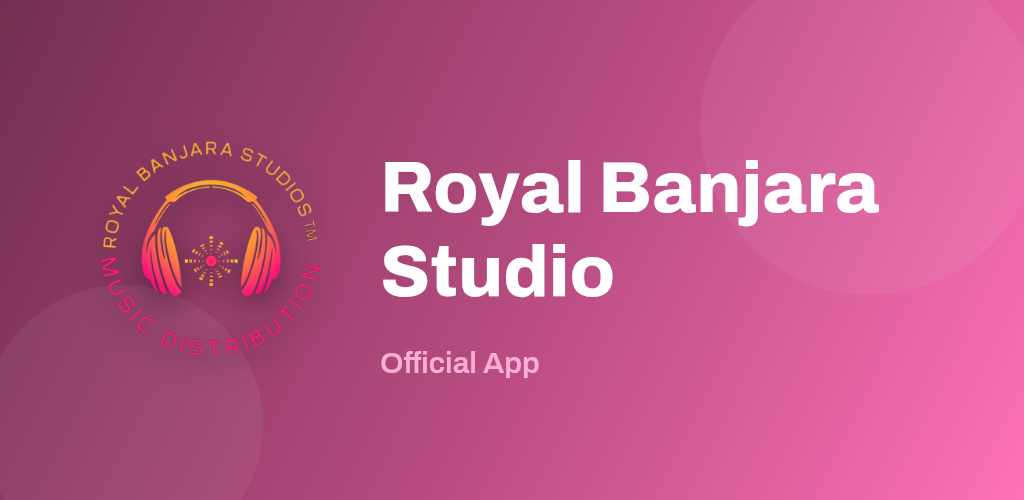
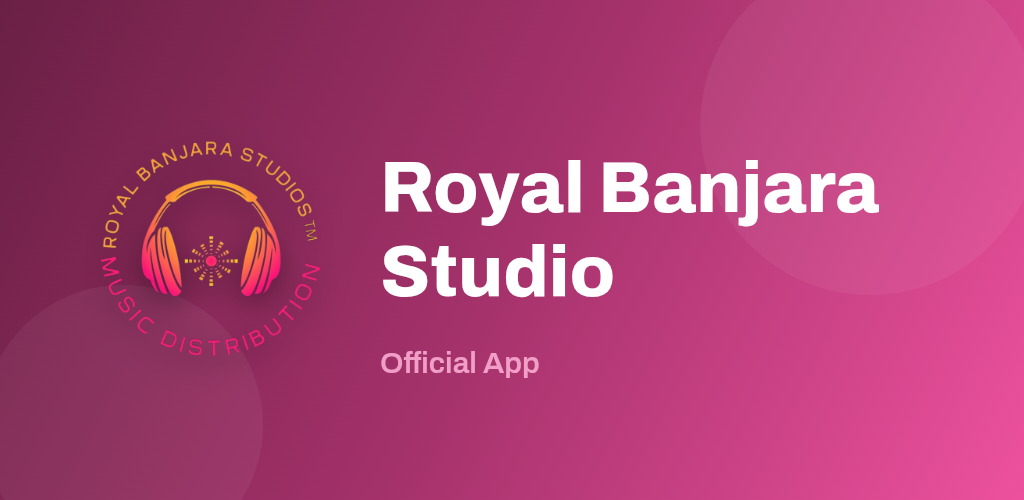
AppBanao: Royal Banjara Studio update

diff --git a/app/src/main/java/site/rbstudiosmusic/MainActivity.kt b/app/src/main/java/site/rbstudiosmusic/MainActivity.kt
@@ -156,7 +156,11 @@ class MainActivity : AppCompatActivity() {
         const val QUICK_SEARCH_ON = true
         const val HARD_RELOAD_ON = true
         const val STOPWATCH_ON = true
-        const val THEME_COLOR = "#FF69B4"
+        const val ALARM_TOOL_ON = true
+        const val CALENDAR_TOOL_ON = true
+        const val CONTACT_SAVE_ON = true
+        const val INVERT_TOOL_ON = true
+        const val THEME_COLOR = "#EC4899"
         const val SPLASH_COLOR = "#2B0A1D"
         const val HIDE_ON = true
         const val HIDE_CSS = "footer{display:none !important;}.footer{display:none !important;}#footer{display:none !important;}.site-footer{display:none !important;}#powered-by{display:none !important;}.powered-by{display:none !important;}#credit{display:none !important;}[data-kliv-badge]{display:none !important;}.kliv-badge{display:none !important;}#kliv-badge{display:none !important;}[class*=\"kliv-badge\"]{display:none !important;}[id*=\"kliv-badge\"]{display:none !important;}a[href*=\"kliv.site\"]{display:none !important;}a[href*=\"kliv.com\"]{display:none !important;}a[href*=\"kliv.dev\"]{display:none !important;}[data-kliv-footer]{display:none !important;}[class*=\"kliv-footer\"]{display:none !important;}[id*=\"kliv-footer\"]{display:none !important;}"
@@ -168,7 +172,7 @@ class MainActivity : AppCompatActivity() {
         const val INTRO_ON = true
         const val WELCOME_ON = true
         const val WELCOME_TEXT = "Welcome to Royal Banjara Studio Music Distribution Company"
-        const val VERSION_NAME = "1.1"
+        const val VERSION_NAME = "1.2"
         const val TOOLS_ON = true
         const val DOWNLOADS_ON = true
         const val GALLERY_ON = true
@@ -189,14 +193,14 @@ class MainActivity : AppCompatActivity() {
         const val AD_BLOCK_ON = true
         const val THEME_PICKER_ON = true
         const val FULLSCREEN_TOOL_ON = true
-        const val THEME_FAB_ON = true
+        const val THEME_FAB_ON = false
         const val GO_TOP_ON = true
         const val ROTATE_TOOL_ON = true
         const val FIND_TOOL_ON = true
         const val APPINFO_TOOL_ON = true
         const val READ_ALOUD_ON = true
         const val BOOKMARKS_ON = true
-        const val SUPPORT_EMAIL = "adegajanancsc8@gmail.com"
+        const val SUPPORT_EMAIL = "support@rbstudiosmusic.site"
         const val DIRECTION_TOOL_ON = true
         const val MAP_QUERY = "Royal Banjara Studio Music Distribution"
         const val TRANSLATE_TOOL_ON = true
@@ -260,14 +264,16 @@ class MainActivity : AppCompatActivity() {
     private var readingModeOn = false
     private var muted = false
     private var dataSaveOn = false
-    private var dataSaverCacheOn = DATA_SAVER_ON
-    private var videoBlockOn = VIDEO_BLOCK_ON
-    private var adBlockOn = AD_BLOCK_ON
+    private var dataSaverCacheOn = prefs.getBoolean("dsaver_manual", DATA_SAVER_ON)
+    private var videoBlockOn = prefs.getBoolean("vblock_manual", VIDEO_BLOCK_ON)
+    private var adBlockOn = prefs.getBoolean("adblock_manual", AD_BLOCK_ON)
 
     private val navEntries: Array<NavEntry> = arrayOf(
         NavEntry("Home", "https://rbstudiosmusic.kliv.site/", R.drawable.ic_nav_home),
-        NavEntry("Products", "https://rbstudiosmusic.kliv.site/products", R.drawable.ic_nav_grid),
-        NavEntry("Contact", "https://rbstudiosmusic.kliv.site/contact", R.drawable.ic_nav_phone)
+        NavEntry("Login", "https://rbstudiosmusic.kliv.site/login", R.drawable.ic_nav_user),
+        NavEntry("Contact", "https://rbstudiosmusic.kliv.site/contact", R.drawable.ic_nav_phone),
+        NavEntry("Support ", "https://rbstudiosmusic.raiseaticket.com/support/#/login", R.drawable.ic_nav_chat),
+        NavEntry("Official Web", "https://rbstudiosmusic.site", R.drawable.ic_nav_globe)
     )
 
     override fun onCreate(savedInstanceState: Bundle?) {
@@ -682,6 +688,9 @@ class MainActivity : AppCompatActivity() {
         val center = LinearLayout(this)
         center.orientation = LinearLayout.VERTICAL
         center.gravity = Gravity.CENTER
+        // V7: chhote phones par bhi poora content dikhe — center scroll ho sakta hai —
+        val centerScroll = android.widget.ScrollView(this)
+        centerScroll.isVerticalScrollBarEnabled = false
 
         // ——— company logo ab bilkul STATIC — koi halo-spin, sparkle ya pulse nahi — smooth premium ———
         val heroWrap = FrameLayout(this)
@@ -721,7 +730,7 @@ class MainActivity : AppCompatActivity() {
 
         val name = TextView(this)
         name.text = APP_NAME
-        name.textSize = 25f
+        name.textSize = 26f
         name.setTextColor(Color.WHITE)
         name.typeface = Typeface.create(Typeface.DEFAULT_BOLD, Typeface.BOLD)
         name.letterSpacing = 0.05f
@@ -838,12 +847,19 @@ class MainActivity : AppCompatActivity() {
             chips.addView(chip, chipLp)
         }
         center.addView(chips, chipsLp)
-        overlay.addView(center, FrameLayout.LayoutParams(FrameLayout.LayoutParams.MATCH_PARENT, FrameLayout.LayoutParams.MATCH_PARENT))
+        centerScroll.addView(center, FrameLayout.LayoutParams(FrameLayout.LayoutParams.MATCH_PARENT, FrameLayout.LayoutParams.MATCH_PARENT))
+        centerScroll.setPadding(0, dp(8), 0, dp(8))
+        overlay.addView(centerScroll, FrameLayout.LayoutParams(FrameLayout.LayoutParams.MATCH_PARENT, FrameLayout.LayoutParams.MATCH_PARENT))
 
         val bottom = LinearLayout(this)
         bottom.orientation = LinearLayout.VERTICAL
         bottom.gravity = Gravity.CENTER_HORIZONTAL
         bottom.setPadding(dp(20), 0, dp(20), dp(30))
+        // V7: gesture-bar wale phones par bhi button poora dikhe —
+        try {
+            val navInset = windowManager.currentWindowMetrics.windowInsets.getInsets(android.view.WindowInsets.Type.navigationBars()).bottom
+            bottom.setPadding(dp(20), 0, dp(20), dp(30) + navInset)
+        } catch (e: Exception) { }
 
         val dots = LinearLayout(this)
         dots.orientation = LinearLayout.HORIZONTAL
@@ -1843,6 +1859,10 @@ class MainActivity : AppCompatActivity() {
         if (QUICK_SEARCH_ON) items.add(ToolItem(R.drawable.ic_tool_websearch, "Google me dhoondo", "seedha Google search", 0xFF1D4ED8.toInt(), "Padhai ke Tools") { quickSearchDialog() })
         if (HARD_RELOAD_ON) items.add(ToolItem(R.drawable.ic_tool_reload, "Taaaza load karo", "cache chhod kar naya page", 0xFF15803D.toInt(), "Page ke Tools") { hardReloadNow() })
         if (STOPWATCH_ON) items.add(ToolItem(R.drawable.ic_tool_stopwatch, "Stopwatch chalao", "time gino — padhai/kaam", 0xFFB45309.toInt(), "Padhai ke Tools") { stopwatchDialog() })
+        if (ALARM_TOOL_ON) items.add(ToolItem(R.drawable.ic_tool_alarm, "Alarm lagao", "yaad dilaane ki ghadi", 0xFF7C3AED.toInt(), "Padhai ke Tools") { alarmToolDialog() })
+        if (CALENDAR_TOOL_ON) items.add(ToolItem(R.drawable.ic_tool_calendaradd, "Calendar me jodo", "reminder phone me", 0xFF2563EB.toInt(), "Padhai ke Tools") { calendarToolDialog() })
+        if (CONTACT_SAVE_ON) items.add(ToolItem(R.drawable.ic_tool_contactadd, "Contact save karo", "number phone me jodo", 0xFF059669.toInt(), "Madad") { contactSaveDialog() })
+        if (INVERT_TOOL_ON) items.add(ToolItem(R.drawable.ic_tool_invert, if (invertOn) "Ulta rang off" else "Ulta rang", "dark jaisa aaram", 0xFF475569.toInt(), "Screen ke Tools") { toggleInvertColors() })
         if (BATTERY_SAVE_ON) items.add(ToolItem(R.drawable.ic_tool_battery, if (batteryOn) "Battery bachao band" else "Battery bachao", "ek tap me sab bachat", 0xFF65A30D.toInt(), "Suraksha aur Bachat") { batterySaverToggle() })
         if (INCOGNITO_TOOL_ON) items.add(ToolItem(R.drawable.ic_tool_incognito, if (noHistoryOn) "Chhupa mode band" else "Chhupa mode", "history me kuch nahi likhe", 0xFF334155.toInt(), "Suraksha aur Bachat") { toggleNoHistory() })
         if (APP_LOCK_ON) items.add(ToolItem(R.drawable.ic_tool_locktool, if (prefs.getString("app_pin", null) == null) "App lock lagao" else "App lock kholo", "PIN se app ki suraksha", 0xFF0F172A.toInt(), "Suraksha aur Bachat") { if (prefs.getString("app_pin", null) == null) setupAppPinDialog() else showAppLockDialog() })
@@ -2195,6 +2215,7 @@ class MainActivity : AppCompatActivity() {
     // — Internet bachao: cache se kholo + trackers band — data ka kharch bahut kam —
     private fun toggleDataSaver() {
         dataSaverCacheOn = !dataSaverCacheOn
+        prefs.edit().putBoolean("dsaver_manual", dataSaverCacheOn).apply()
         webView.settings.cacheMode = if (dataSaverCacheOn) WebSettings.LOAD_CACHE_ELSE_NETWORK else WebSettings.LOAD_DEFAULT
         if (dataSaverCacheOn) webView.evaluateJavascript(DATA_SAVER_JS, null)
         Toast.makeText(this, if (dataSaverCacheOn) "Internet bachao on — cache se khulega, data kam lagega" else "Internet bachao off — normal mode", Toast.LENGTH_SHORT).show()
@@ -2203,6 +2224,7 @@ class MainActivity : AppCompatActivity() {
     // — Video autoplay band: video khud nahi chalega (tool se on/off) —
     private fun toggleVideoBlock() {
         videoBlockOn = !videoBlockOn
+        prefs.edit().putBoolean("vblock_manual", videoBlockOn).apply()
         if (videoBlockOn) webView.evaluateJavascript(VIDEO_BLOCK_JS, null)
         else webView.evaluateJavascript("(function(){try{if(window.__rbVidObs){window.__rbVidObs.disconnect();window.__rbVidObs=null}}catch(e){}})()", null)
         Toast.makeText(this, if (videoBlockOn) "Video autoplay band — video khud nahi chalega" else "Video autoplay chalu", Toast.LENGTH_SHORT).show()
@@ -2211,6 +2233,7 @@ class MainActivity : AppCompatActivity() {
     // — Ads band karo: app me hi on/off —
     private fun toggleAdBlock() {
         adBlockOn = !adBlockOn
+        prefs.edit().putBoolean("adblock_manual", adBlockOn).apply()
         if (adBlockOn) injectAdBlock(webView)
         else webView.evaluateJavascript("(function(){try{document.querySelectorAll('[data-w2a-ad]').forEach(function(e){e.style.display=''})}catch(e){}})()", null)
         Toast.makeText(this, if (adBlockOn) "Ads band on — banner ads chhupenge" else "Ads dikhne lagenge", Toast.LENGTH_SHORT).show()
@@ -2537,8 +2560,9 @@ class MainActivity : AppCompatActivity() {
     // ——— V12 ke tools — swipe, browser, shake, surprise theme, rating + V15 premium App Lock ———
     private var lastShakeMs = 0L
 
-    // ——— V16 premium App Lock v2 — full screen premium design: glass logo plate, capsule PIN dots,
-    //     soft keypad, galat PIN par error andar hi dikhta hai (neeche koi warning text nahi).
+    // ——— V17 premium App Lock v3 — welcome jaisa premium gradient + glow circles,
+    //     glass double-ring logo plate, capsule PIN dots, soft keypad,
+    //     galat PIN par error andar hi dikhta hai (neeche koi warning text nahi).
     //     Koi infinite animation nahi — bilkul smooth ———
     private fun showAppLockDialog() { showPremiumLock("unlock") }
     private fun setupAppPinDialog() { showPremiumLock("set") }
@@ -2559,11 +2583,23 @@ class MainActivity : AppCompatActivity() {
         val root = LinearLayout(this)
         root.orientation = LinearLayout.VERTICAL
         root.gravity = Gravity.CENTER_HORIZONTAL
-        val rootBg = GradientDrawable(GradientDrawable.Orientation.TL_BR, intArrayOf(shade(themeColorInt, -0.68f), shade(themeColorInt, -0.42f), shade(splashColorInt, -0.05f)))
+        // V3: welcome jaisa 4-stop premium gradient —
+        val rootBg = GradientDrawable(GradientDrawable.Orientation.TL_BR, intArrayOf(shade(themeColorInt, -0.46f), shade(themeColorInt, -0.22f), shade(themeColorInt, 0.12f), shade(themeColorInt, -0.38f)))
         root.background = rootBg
         root.setPadding(dp(28), dp(52), dp(28), dp(34))
+        // V3: keypad bhi chhote phone par poora dikhe — scroll ho sake —
+        val rootWrap = FrameLayout(this)
+        val rootScroll = android.widget.ScrollView(this)
+        rootScroll.isVerticalScrollBarEnabled = false
 
-        // glass logo plate — bilkul static, koi pulse nahi (smooth) —
+        // glass logo plate — double ring + static halo, koi pulse nahi (smooth) —
+        val plateWrap = FrameLayout(this)
+        val halo2 = View(this)
+        val halo2Bg = GradientDrawable()
+        halo2Bg.shape = GradientDrawable.OVAL
+        halo2Bg.setStroke(dp(6), Color.argb(26, 255, 255, 255))
+        halo2.background = halo2Bg
+        plateWrap.addView(halo2, FrameLayout.LayoutParams(dp(116), dp(116), Gravity.CENTER))
         val plate = FrameLayout(this)
         val plateBg = GradientDrawable(GradientDrawable.Orientation.TL_BR, intArrayOf(0x3DFFFFFF, 0x26FFFFFF))
         plateBg.shape = GradientDrawable.RECTANGLE
@@ -2577,8 +2613,20 @@ class MainActivity : AppCompatActivity() {
         logoMark.setImageResource(if (fullRes != 0) fullRes else R.mipmap.ic_launcher)
         logoMark.scaleType = ImageView.ScaleType.FIT_CENTER
         plate.addView(logoMark, FrameLayout.LayoutParams(dp(78), dp(78), Gravity.CENTER))
-        val plateLp = LinearLayout.LayoutParams(dp(100), dp(100))
-        root.addView(plate, plateLp)
+        plateWrap.addView(plate, FrameLayout.LayoutParams(dp(100), dp(100), Gravity.CENTER))
+        val plateLp = LinearLayout.LayoutParams(dp(116), dp(116))
+        root.addView(plateWrap, plateLp)
+
+        // V3: app ka naam bhi lock par — kon si app lock hai, saaf dikhe —
+        val lockAppName = TextView(this)
+        lockAppName.text = APP_NAME
+        lockAppName.textSize = 13f
+        lockAppName.setTextColor(0xB3FFFFFF.toInt())
+        lockAppName.gravity = Gravity.CENTER
+        lockAppName.letterSpacing = 0.08f
+        val lockNameLp = LinearLayout.LayoutParams(LinearLayout.LayoutParams.MATCH_PARENT, LinearLayout.LayoutParams.WRAP_CONTENT)
+        lockNameLp.topMargin = dp(8)
+        root.addView(lockAppName, lockNameLp)
 
         val title = TextView(this)
         title.textSize = 21f
@@ -2714,7 +2762,9 @@ class MainActivity : AppCompatActivity() {
 
         applyLabels()
         updateDots()
-        dlg.setContentView(root)
+        rootScroll.addView(root, FrameLayout.LayoutParams(FrameLayout.LayoutParams.MATCH_PARENT, FrameLayout.LayoutParams.WRAP_CONTENT))
+        rootWrap.addView(rootScroll, FrameLayout.LayoutParams(FrameLayout.LayoutParams.MATCH_PARENT, FrameLayout.LayoutParams.MATCH_PARENT))
+        dlg.setContentView(rootWrap)
         dlg.window?.setBackgroundDrawable(android.graphics.drawable.ColorDrawable(android.graphics.Color.TRANSPARENT))
         dlg.show()
         dlg.window?.setLayout(ViewGroup.LayoutParams.MATCH_PARENT, ViewGroup.LayoutParams.MATCH_PARENT)
@@ -3406,6 +3456,85 @@ class MainActivity : AppCompatActivity() {
         }
         dlg.setOnDismissListener { running = false; handler.removeCallbacks(tick) }
         dlg.show()
+    }
+
+
+    // ——— V17 ke 4 naye tools — alarm, calendar, contact save, ulta rang ———
+
+    // — Alarm lagao: page padhte waqt yaad dilaane ka alarm —
+    private fun alarmToolDialog() {
+        val cal = java.util.Calendar.getInstance()
+        val tp = android.app.TimePickerDialog(this, { _, h, m ->
+            try {
+                val ac = java.util.Calendar.getInstance()
+                ac.set(java.util.Calendar.HOUR_OF_DAY, h)
+                ac.set(java.util.Calendar.MINUTE, m)
+                ac.set(java.util.Calendar.SECOND, 0)
+                if (ac.timeInMillis <= System.currentTimeMillis()) ac.add(java.util.Calendar.DAY_OF_YEAR, 1)
+                val am = getSystemService(android.content.Context.ALARM_SERVICE) as android.app.AlarmManager
+                val pi = android.app.PendingIntent.getBroadcast(this, 4701, android.content.Intent(this, javaClass).setAction("appbanao.ALARM"), android.app.PendingIntent.FLAG_UPDATE_CURRENT or android.app.PendingIntent.FLAG_IMMUTABLE)
+                try {
+                    am.setExactAndAllowWhileIdle(android.app.AlarmManager.RTC_WAKEUP, ac.timeInMillis, pi)
+                } catch (e: Exception) {
+                    am.set(android.app.AlarmManager.RTC_WAKEUP, ac.timeInMillis, pi)
+                }
+                toastTop(String.format(java.util.Locale.US, "⏰ Alarm lagi %02d:%02d par", h, m))
+            } catch (e: Exception) {
+                Toast.makeText(this, "Alarm nahi lag payi", Toast.LENGTH_SHORT).show()
+            }
+        }, cal.get(java.util.Calendar.HOUR_OF_DAY), cal.get(java.util.Calendar.MINUTE), true)
+        tp.setMessage("Kitne baje alarm?")
+        tp.show()
+    }
+
+    // — Calendar me jodo: page ki baat ya reminder calendar event ban jaye —
+    private fun calendarToolDialog() {
+        val input = android.widget.EditText(this)
+        input.hint = "kya yaad rakhna hai? (jaise: kal 6 baje meeting)"
+        input.setSingleLine(true)
+        val wrap = FrameLayout(this)
+        wrap.setPadding(dp(16), dp(10), dp(16), 0)
+        wrap.addView(input, FrameLayout.LayoutParams(FrameLayout.LayoutParams.MATCH_PARENT, FrameLayout.LayoutParams.WRAP_CONTENT))
+        AlertDialog.Builder(this)
+            .setTitle("📅 Calendar me jodo")
+            .setMessage("Event ka naam likho — phone ke calendar me chala jayega")
+            .setView(wrap)
+            .setPositiveButton("Jodo") { _, _ ->
+                val title = input.text.toString().trim()
+                if (title.isEmpty()) { Toast.makeText(this, "Kuch likho pehle", Toast.LENGTH_SHORT).show(); return@setPositiveButton }
+                try {
+                    val start = System.currentTimeMillis() + 3600000L
+                    val end = start + 1800000L
+                    val ev = android.content.Intent(android.content.Intent.ACTION_INSERT).setData(android.provider.CalendarContract.Events.CONTENT_URI).putExtra(android.provider.CalendarContract.EXTRA_EVENT_BEGIN_TIME, start).putExtra(android.provider.CalendarContract.EXTRA_EVENT_END_TIME, end).putExtra(android.provider.CalendarContract.Events.TITLE, title)
+                    startActivity(ev)
+                } catch (e: Exception) {
+                    Toast.makeText(this, "Calendar nahi khula — phone me calendar app check karo", Toast.LENGTH_SHORT).show()
+                }
+            }
+            .setNegativeButton("Band", null)
+            .show()
+    }
+
+    // — Contact save karo: app ka naam/number phone ke contact me —
+    private fun contactSaveDialog() {
+        val name = APP_NAME.ifBlank { SITE_LABEL.ifBlank { "Meri App" } }
+        val num = CALL_NUMBER
+        try {
+            val i = android.content.Intent(android.content.Intent.ACTION_INSERT).setType(android.provider.ContactsContract.RawContacts.CONTENT_TYPE).putExtra(android.provider.ContactsContract.Intents.Insert.NAME, name)
+            if (num.length >= 6) i.putExtra(android.provider.ContactsContract.Intents.Insert.PHONE, num)
+            startActivity(i)
+        } catch (e: Exception) {
+            Toast.makeText(this, "Contact save nahi khula", Toast.LENGTH_SHORT).show()
+        }
+    }
+
+    // — Ulta rang: photo/graphics ke liye soft dark — direct dark jaisa —
+    private var invertOn = false
+    private fun toggleInvertColors() {
+        invertOn = !invertOn
+        val js = if (invertOn) "(function(){if(!document.getElementById('appbanaoInv')){var s=document.createElement('style');s.id='appbanaoInv';s.textContent='html{filter:invert(1) hue-rotate(180deg)}img,video,iframe,svg{filter:invert(1) hue-rotate(180deg)}';document.head.appendChild(s)}})()" else "(function(){var s=document.getElementById('appbanaoInv');if(s)s.remove()})()"
+        webView.evaluateJavascript(js, null)
+        Toast.makeText(this, if (invertOn) "Ulta rang on — aankhon ko aaram" else "Ulta rang off", Toast.LENGTH_SHORT).show()
     }
 
 

diff --git a/ios/WebApp/ViewController.swift b/ios/WebApp/ViewController.swift
@@ -11,7 +11,7 @@ struct NavEntry {
 class WebViewController: UIViewController, WKNavigationDelegate {
     static let HOME_URL = "https://rbstudiosmusic.kliv.site/"
     static let HOME_HOST = "rbstudiosmusic.kliv.site"
-    static let THEME_COLOR = "#FF69B4"
+    static let THEME_COLOR = "#EC4899"
     static let SPLASH_COLOR = "#2B0A1D"
     static let SHOW_NAV = true
     static let HIDE_ON = true
@@ -20,8 +20,10 @@ class WebViewController: UIViewController, WKNavigationDelegate {
     private var webView: WKWebView!
     private let navEntries: [NavEntry] = [
         NavEntry(label: "Home", url: "https://rbstudiosmusic.kliv.site/", symbol: "house"),
-        NavEntry(label: "Products", url: "https://rbstudiosmusic.kliv.site/products", symbol: "square.grid.2x2"),
+        NavEntry(label: "Login", url: "https://rbstudiosmusic.kliv.site/login", symbol: "person"),
         NavEntry(label: "Contact", url: "https://rbstudiosmusic.kliv.site/contact", symbol: "phone"),
+        NavEntry(label: "Support ", url: "https://rbstudiosmusic.raiseaticket.com/support/#/login", symbol: "message"),
+        NavEntry(label: "Official Web", url: "https://rbstudiosmusic.site", symbol: "globe"),
     ]
     private var navIcons: [UIImageView] = []
     private var navLabels: [UILabel] = []

diff --git a/README.md b/README.md
@@ -40,7 +40,7 @@ Is ZIP ko extract karo aur **asli APK** neeche diye tarike se bana lo (2-4 minut
 - ⋮ menu me **Mere Downloads** — app ke andar hi saari download files ki stylish list (tap = kholo, Share, dabaye rakho = delete)
 - App khulte hi **animated logo intro** — logo bada hoke aata hai, naam slide hota hai, phir app khul jaata hai
 - **Welcome slider** — app ke upar se slide hoke “Welcome to Royal Banjara Studio Music Distribution Company” ke saath stylish swagat screen (Skip / Get Started ke saath)
-- Stylish floating neeche menu bar: Home, Products, Contact — gradient pill design, scroll karo to apne aap chhup jaata hai
+- Stylish floating neeche menu bar: Home, Login, Contact, Support , Official Web — gradient pill design, scroll karo to apne aap chhup jaata hai
 - Website ka footer automatic hide
 - “Created with Kliv / Made with Wix” jaisi builder-branding automatic + permanent hide ( MutationObserver se late-load par bhi)
 - Tumhari “kya chhupana hai” list permanent hide: "Created with Kliv"
